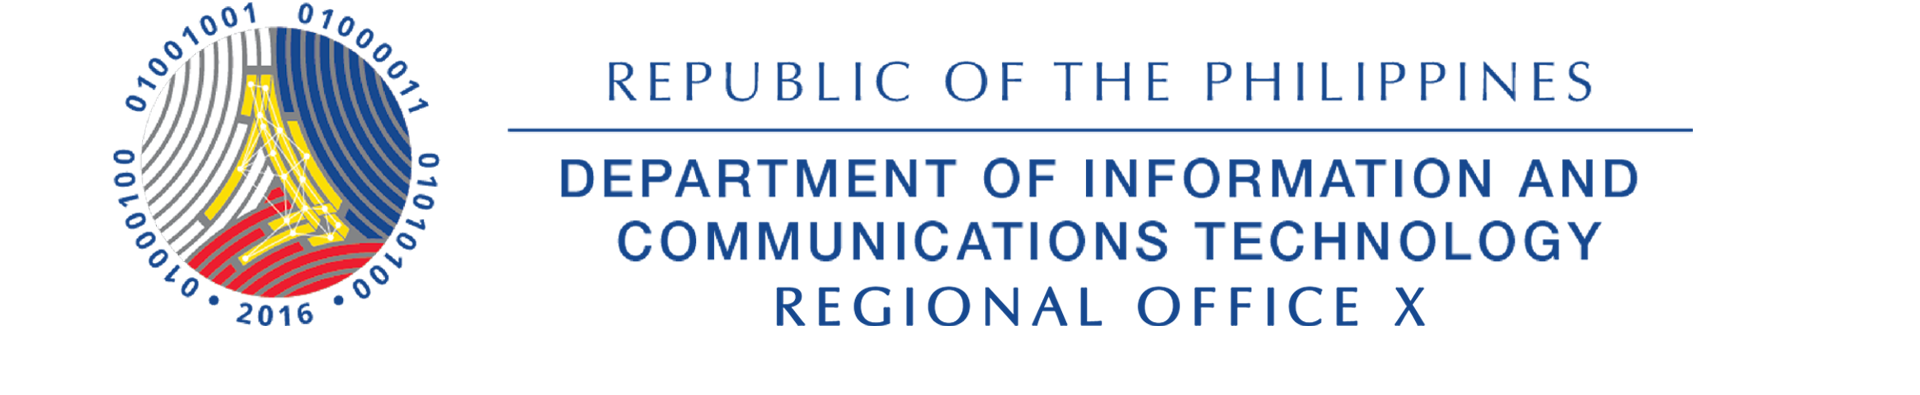
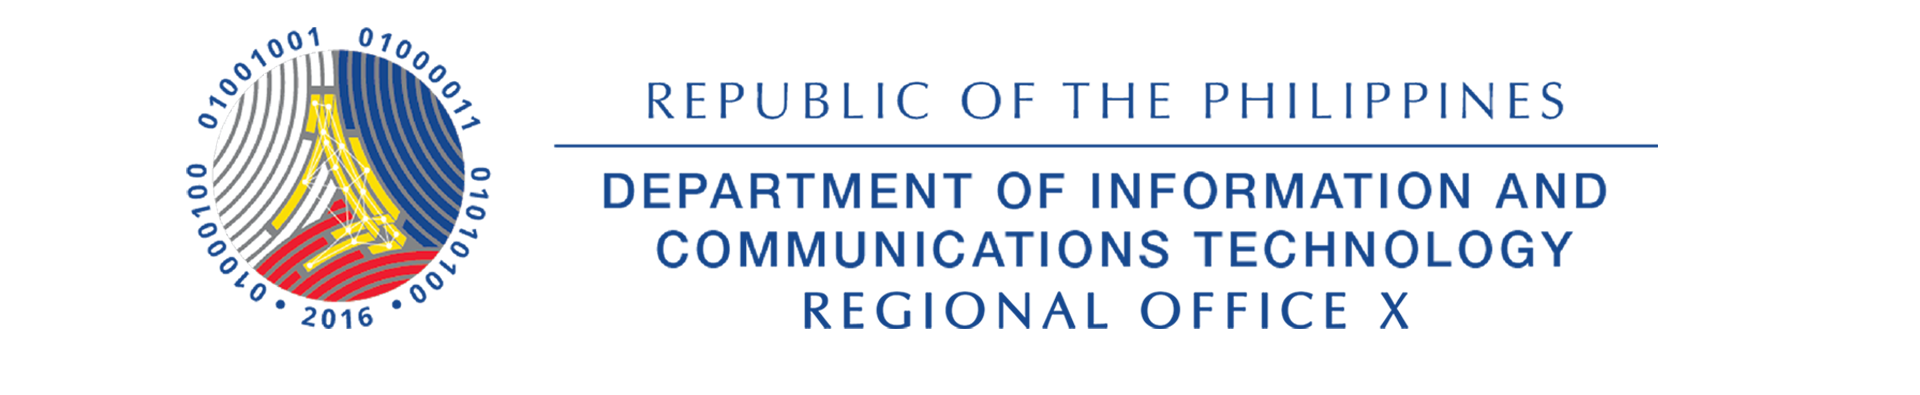
ok

Changed region(s): [[0.0625, 0.0, 0.875, 0.8506], [0.4062, 0.7291, 0.75, 0.8506]]

diff --git a/src/screens/admin/attendanceReport/printDTR/PDF.tsx b/src/screens/admin/attendanceReport/printDTR/PDF.tsx
@@ -1,6 +1,6 @@
 import { Page, Text, View, Document, Image, Font } from '@react-pdf/renderer';
 import { convertDate } from '@/helper/date-time';
-import DICT from './../../../../assets/dict.png';
+import DICT from './../../../../assets/dict2.png';
 import { convertStatus } from '@/helper/convert-status';
 
 Font.register({

diff --git a/src/screens/user/attendance-record/printDTR/PDF.tsx b/src/screens/user/attendance-record/printDTR/PDF.tsx
@@ -1,6 +1,6 @@
 import { Page, Text, View, Document, Image, Font } from '@react-pdf/renderer';
 import { convertDate } from '@/helper/date-time';
-import DICT from './../../../../assets/dict.png';
+import DICT from './../../../../assets/dict2.png';
 import { convertStatus } from '@/helper/convert-status';
 
 Font.register({

diff --git a/src/screens/user/biometric/FaceMain.tsx b/src/screens/user/biometric/FaceMain.tsx
@@ -61,7 +61,7 @@
     currentLat: number,
     currentLon: number,
     targetLocations: string[],
-    radiusKm: number = 0.30
+    radiusKm: number = 0.10
   ): { isNearby: boolean; distance: number; nearestLocation: string } {
     let minDistance = Infinity;
     let isNearAny = false;
